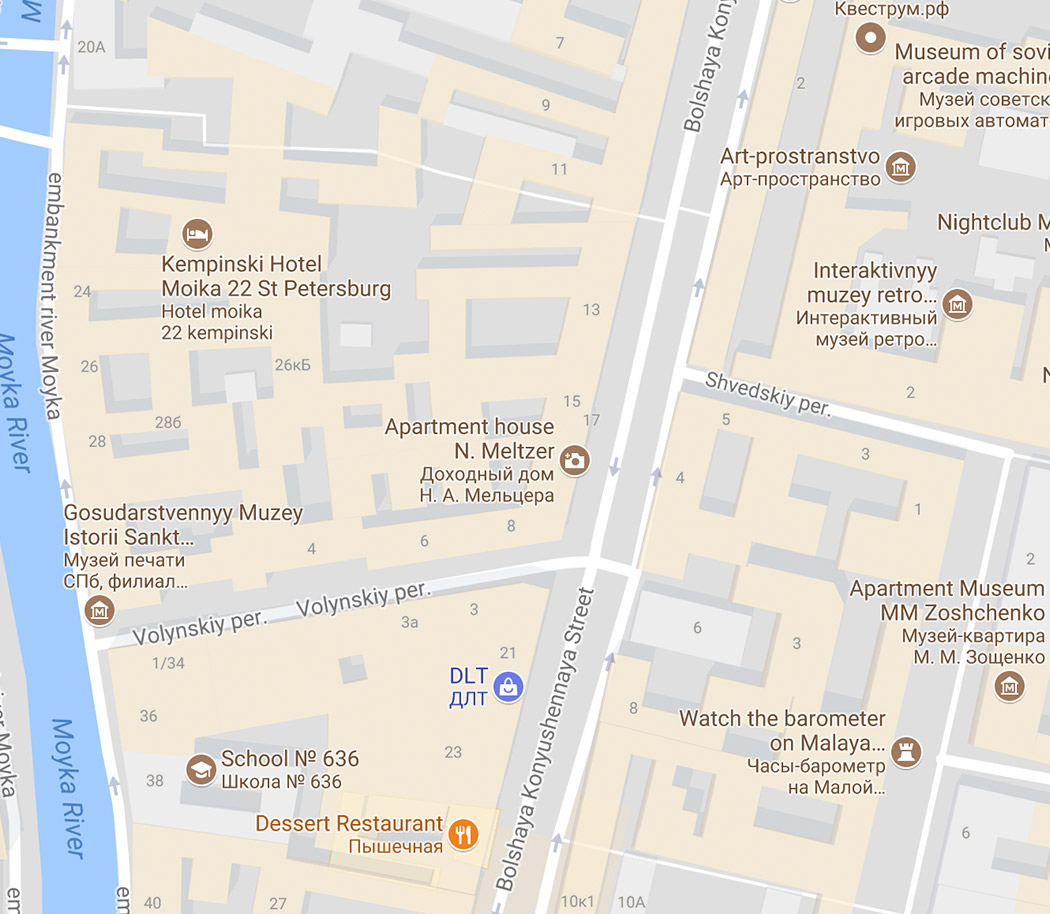
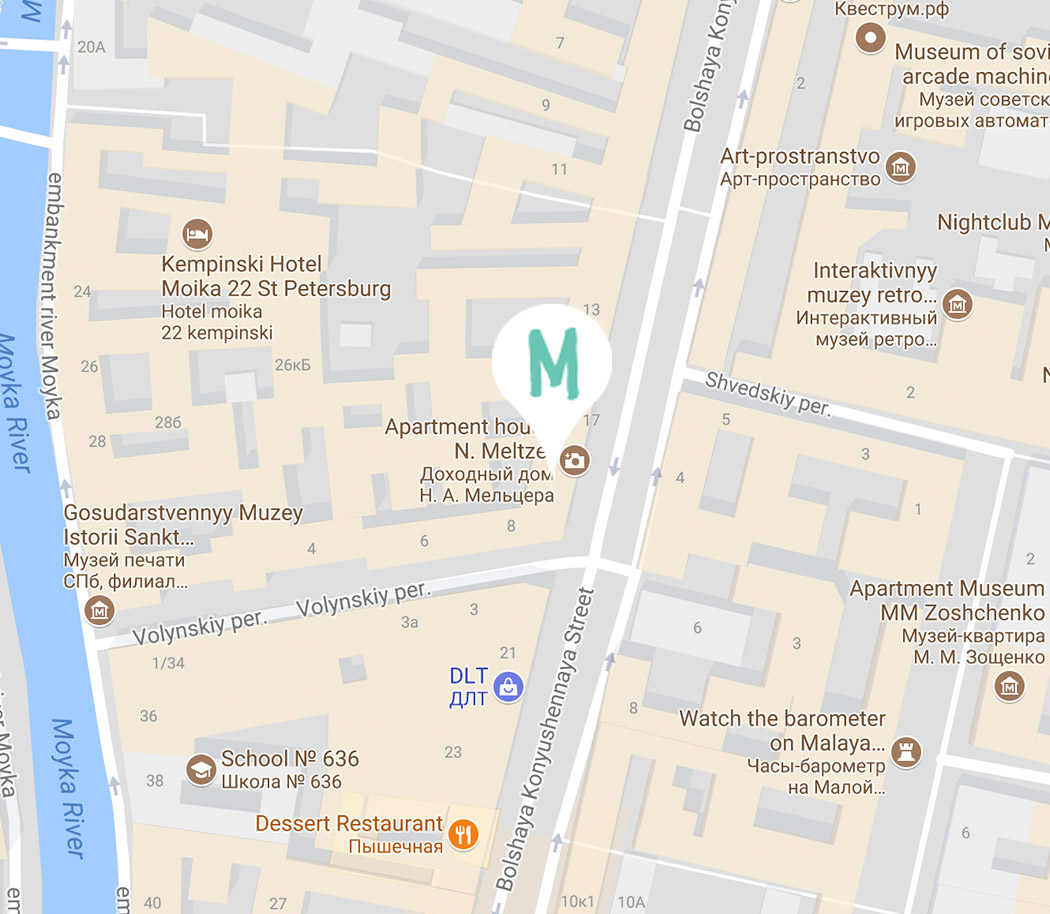
Добавил виджет Яндекс.Карт

Changed region(s): [[0.4571, 0.3063, 0.579, 0.5208]]

diff --git a/source/index.html b/source/index.html
@@ -6,6 +6,7 @@
   <link rel="stylesheet" href="css/style.css" />
   <script defer src="js/svgxuse.min.js"></script>
   <script src="js/picturefill.min.js"></script>
+  <script src="https://api-maps.yandex.ru/2.1/?lang=en_US" type="text/javascript"></script>
   <!-- <script src="https://ajax.googleapis.com/ajax/libs/jquery/2.2.4/jquery.min.js"></script> -->
   <!-- <script src="js/script.js"></script> -->
   <meta name="viewport" content="width=device-width, initial-scale=1.0" />
@@ -208,11 +209,13 @@
           </tr>
         </table>
       </div>
-      <picture>
-        <source media="(min-width:1250px)" srcset="img/map-desktop@1x.jpg 1x, img/map-desktop@2x.jpg 2x">
+      <div class="contact__map-wrapper" id='map'>
+        <picture>
+          <source media="(min-width:1250px)" srcset="img/map-desktop@1x.jpg 1x, img/map-desktop@2x.jpg 2x">
           <source media="(min-width:768px)" srcset="img/map-tablet@1x.jpg 1x, img/map-tablet@2x.jpg 2x">
           <img class="contact__map-image" src="img/map-mobile@1x.jpg" srcset="img/map-mobile@2x.jpg 2x" width="322" height="457" alt="Карта" />
-      </picture>
+        </picture>
+      </div>
       <button class="button contact__button">Напишите нам</button>
     </section>
 
@@ -273,6 +276,8 @@
       <button class="button modal-body__submit">Добавить</button>
     </div>
   </div>
+
+  <!-- <div id="map" style="width: 600px; height: 400px"></div> -->
 
   <script src="js/script.js"></script>
 

diff --git a/source/js/script.js b/source/js/script.js
@@ -44,3 +44,28 @@ for (var i = 0; i < elements.length; i++) {
     modal.style.display = "block";
   });
 }
+
+// Карта
+
+ymaps.ready(init);
+
+var myMap,
+    myPlacemark;
+
+function init(){
+    myMap = new ymaps.Map("map", {
+        center: [59.938631, 30.323055],
+        zoom: 17
+});
+
+if (myMap) {
+  console.log("Карта загружена");
+  var mapPic = document.getElementsByClassName('contact__map-image')[0];
+  mapPic.style.display = 'none';
+}
+
+myPlacemark = new ymaps.Placemark([59.938631, 30.323055], { hintContent: 'Мишка', balloonContent: 'Мишка: милые штуки ручной работы для дома'
+    });
+
+    myMap.geoObjects.add(myPlacemark);
+}

diff --git a/source/sass/index/contact.scss b/source/sass/index/contact.scss
@@ -51,7 +51,13 @@
 .contact__map-image {
   width: 100%;
   height: auto;
-  object-fit: contain;
+}
+
+.contact__map-wrapper {
+  display: block;
+  height: 457px;
+  width: 320px;
+  margin: 0 auto;
 }
 
 .contact__button {
@@ -97,6 +103,11 @@
 
   .contact__table td:last-child {
     width: 70%;
+  }
+
+  .contact__map-wrapper {
+    height: 457px;
+    width: 768px;
   }
 
   .contact__button {
@@ -148,9 +159,12 @@
     align-self: flex-start;
   }
 
-  .contact picture {
+  .contact__map-wrapper {
     order: 3;
     align-self: flex-end;
+    width: 457px;
+    height: 525px;
+    margin: 0;
   }
 
   .contact__map-image {
